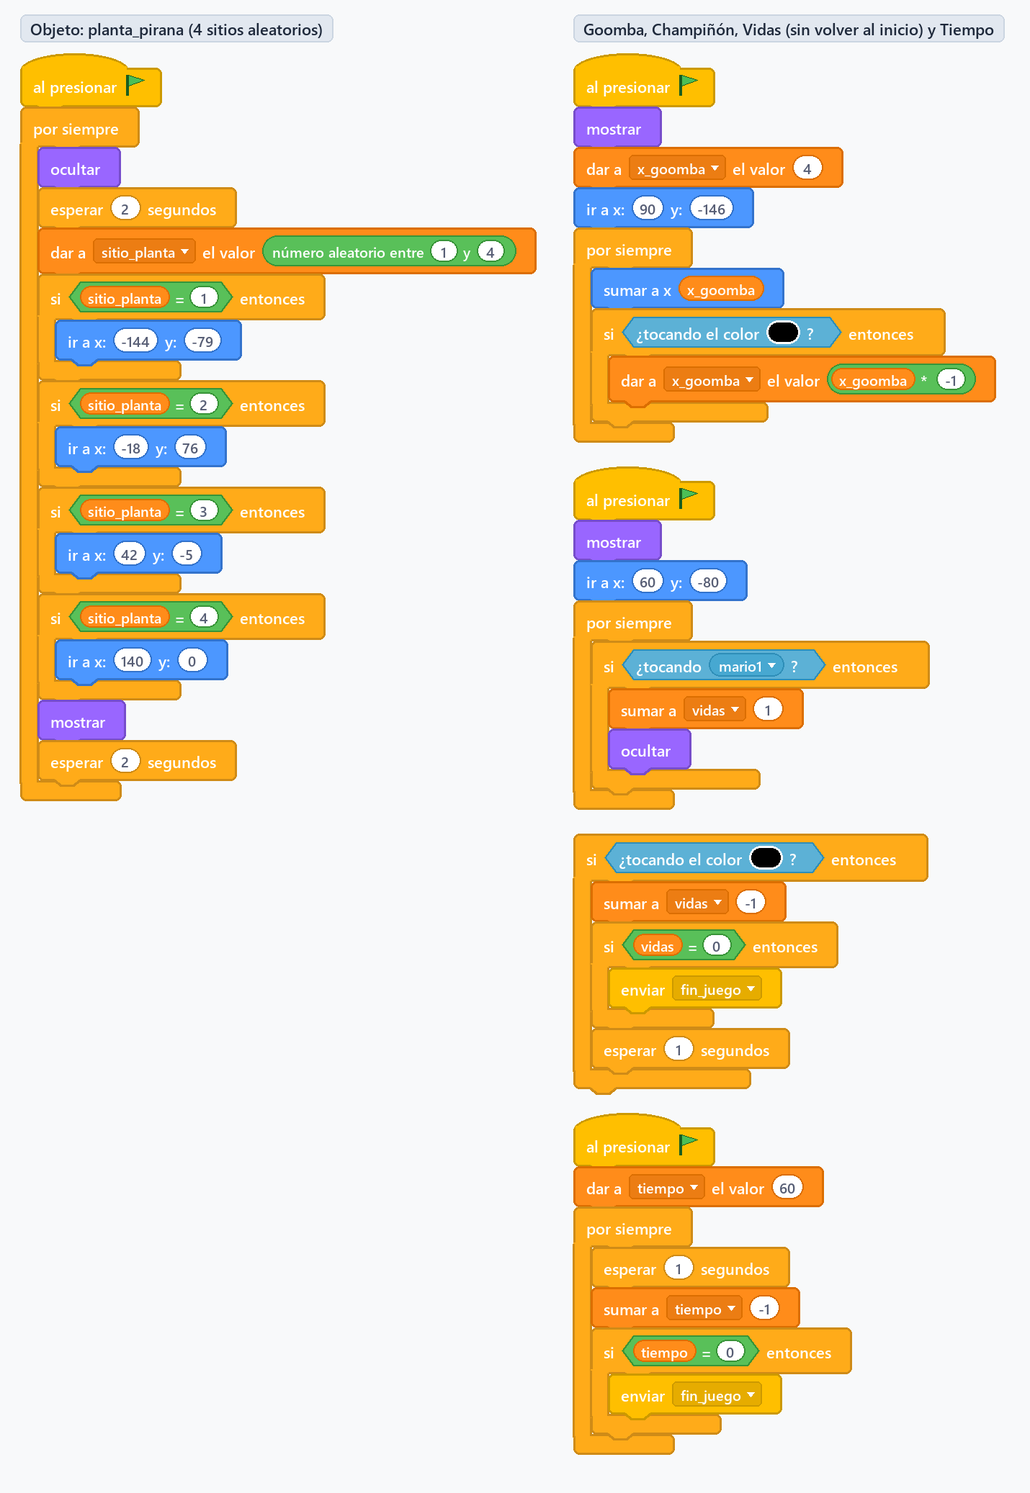
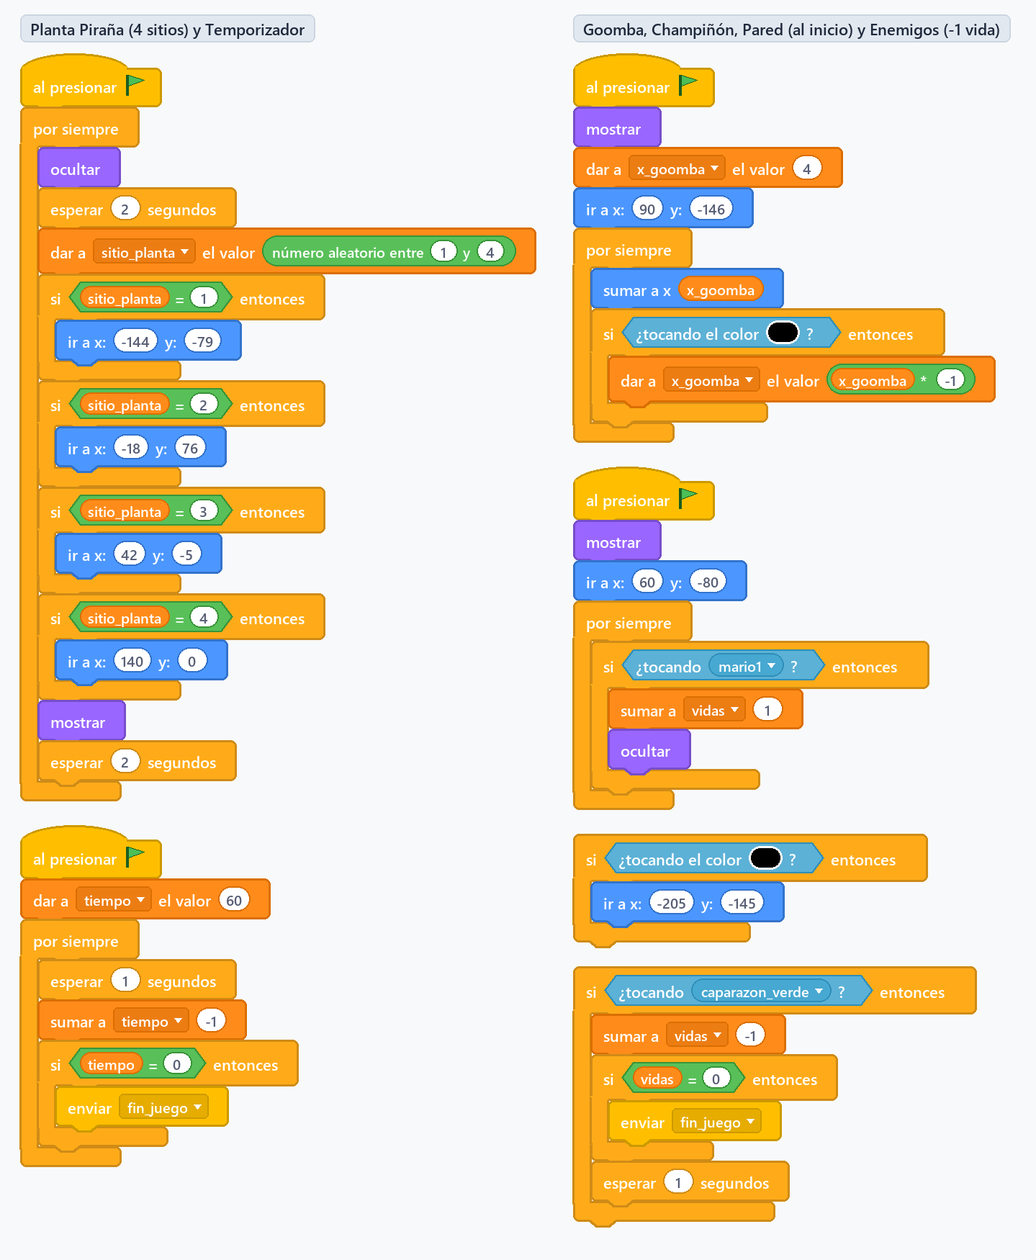
mejoras laberinto ampliado

diff --git a/asignaturas/piari/pensamiento-computacional/actividad8/index.md b/asignaturas/piari/pensamiento-computacional/actividad8/index.md
@@ -311,15 +311,17 @@ El laberinto necesita más vida. Abre de nuevo **`sprites.png`** en **GIMP**, re
 - **Opción B (Planta Piraña trampa en ubicaciones aleatorias)**: Recorta la **Planta Piraña** (`planta_pirana.xcf` / `planta_pirana.png`) y haz que vaya apareciendo (`mostrar`) durante 2 segundos y desapareciendo (`ocultar`) durante 2 segundos dentro de un bucle `por siempre`, cambiando aleatoriamente entre **varios sitios predefinidos** del laberinto mientras está oculta (por ejemplo, usando una variable `sitio_planta` con el bloque verde 🟢 `número aleatorio entre (1) y (4)` y condicionales `si <(sitio_planta) = (...)> entonces` para elegir entre 3 o 4 coordenadas estratégicas del camino).
 - **Opción C (Objetos de bonificación)**: Recorta la **Moneda** (`moneda.xcf` / `moneda.png`) o el **Champiñón** (`champinon.xcf` / `champinon.png`) y colócalos en los callejones sin salida del laberinto para premiar al jugador que se arriesgue a recogerlos.
 
-### ❤ Misión 2: Implementar un Sistema de Vidas (`vidas`)
-Morir al primer roce es demasiado duro. Modifica el programa de Mario para que el jugador disponga de **3 vidas**:
+### ❤ Misión 2: Implementar un Sistema de Vidas (`vidas`) y reposición en paredes
+Morir al primer roce es demasiado duro, pero tampoco podemos permitir que alguien atraviese las paredes. Modifica el programa de Mario para que el jugador disponga de **3 vidas**:
 1. Crea una variable llamada **`vidas`** y deja marcada su casilla para que el marcador se vea en una esquina del escenario.
 2. Al presionar la bandera verde (`⚑`), inicializa la variable con `dar a [vidas v] el valor (3)`.
-3. Modifica los condicionales de choque de Mario (pared negra y enemigos) para que, al chocar:
-   - Se reste 1 vida: `sumar a [vidas v] (-1)` **sin devolver a Mario al inicio del laberinto** (así podrá continuar desde donde estaba).
-   - **Solo si las vidas llegan a 0** (`si <(vidas) = (0)> entonces`), se envíe el mensaje `enviar [fin_juego v]`.
-   - Añade una breve pausa de inmunidad (`esperar (1) segundos`) justo después de comprobar las vidas para dar margen a apartarse de la pared o dejar pasar al enemigo sin perder las 3 vidas de golpe en el mismo choque.
-4. *(Idea extra)*: Si has recortado y añadido el **Champiñón** (`champinon.png`), haz que al tocarlo Mario gane 1 vida extra (`sumar a [vidas v] (1)`) y el champiñón se oculte.
+3. **Si Mario choca con la pared negra del laberinto (`¿tocando el color (#000000)?`)**:
+   - **No le restes vida**, pero haz que **vuelva inmediatamente al inicio** (`ir a x: (-205) y: (-145)`). Así nadie podrá hacer trampas atravesando las paredes para llegar al castillo.
+4. **Si Mario choca con cualquiera de los enemigos (`caparazon_verde`, `caparazon_rojo`, `goomba`, `planta_pirana`)**:
+   - Se resta 1 vida: `sumar a [vidas v] (-1)` **sin devolver a Mario al inicio del laberinto** (continúa desde donde estaba).
+   - **Solo si las vidas llegan a 0** (`si <(vidas) = (0)> entonces`), se envía el mensaje `enviar [fin_juego v]`.
+   - Añade una breve pausa de inmunidad (`esperar (1) segundos`) justo después de comprobar las vidas para que el enemigo pueda pasar sin quitarle las 3 vidas de golpe en el mismo choque.
+5. *(Idea extra)*: Si has recortado y añadido el **Champiñón** (`champinon.png`), haz que al tocarlo Mario gane 1 vida extra (`sumar a [vidas v] (1)`) y el champiñón se oculte.
 
 ### ⚡ Misión 3: Aumentar la dificultad del juego
 Elige e implementa **al menos una** de estas mecánicas para hacer la partida más emocionante:

diff --git a/asignaturas/piari/pensamiento-computacional/actividad8/index_laberinto_mario.md b/asignaturas/piari/pensamiento-computacional/actividad8/index_laberinto_mario.md
@@ -368,9 +368,9 @@ ocultar
 
 ---
 
-### Solución Misión 2: Sistema de 3 Vidas (`vidas`) en `mario1` (sin volver al inicio + 1 s de inmunidad)
+### Solución Misión 2: Sistema de 3 Vidas (`vidas`) en `mario1` (paredes devuelven al inicio sin quitar vida; enemigos quitan 1 vida sin volver al inicio)
 
-*(Al chocar con una pared o un enemigo se resta `1` vida pero **no** se devuelve a Mario a la casilla de salida. Se añade `esperar (1) segundos` tras comprobar si `vidas = 0` para darle 1 segundo de inmunidad y que pueda apartarse sin perder las 3 vidas de golpe en el mismo roce).*
+*(Si Mario toca una **pared negra (`#000000`)**, vuelve inmediatamente a la casilla de salida `(-205, -145)` **sin restar vidas**, evitando así que un jugador pueda atravesar paredes aprovechando la inmunidad. En cambio, al chocar con un **enemigo**, se resta `1` vida **sin** devolver a Mario al inicio y se añade `esperar (1) segundos` tras comprobar si `vidas = 0` para darle 1 segundo de inmunidad y que el enemigo pase sin quitarle las 3 vidas de golpe).*
 
 ```plaintext
 al presionar ⚑
@@ -385,11 +385,7 @@ por siempre
     esperar (0.08) segundos
     siguiente disfraz
     si <¿tocando el color (#000000)?> entonces
-        sumar a [vidas v] (-1)
-        si <(vidas) = (0)> entonces
-            enviar [fin_juego v]
-        fin
-        esperar (1) segundos
+        ir a x: (-205) y: (-145)
     fin
     si <¿tocando (caparazon_verde v)?> entonces
         sumar a [vidas v] (-1)
